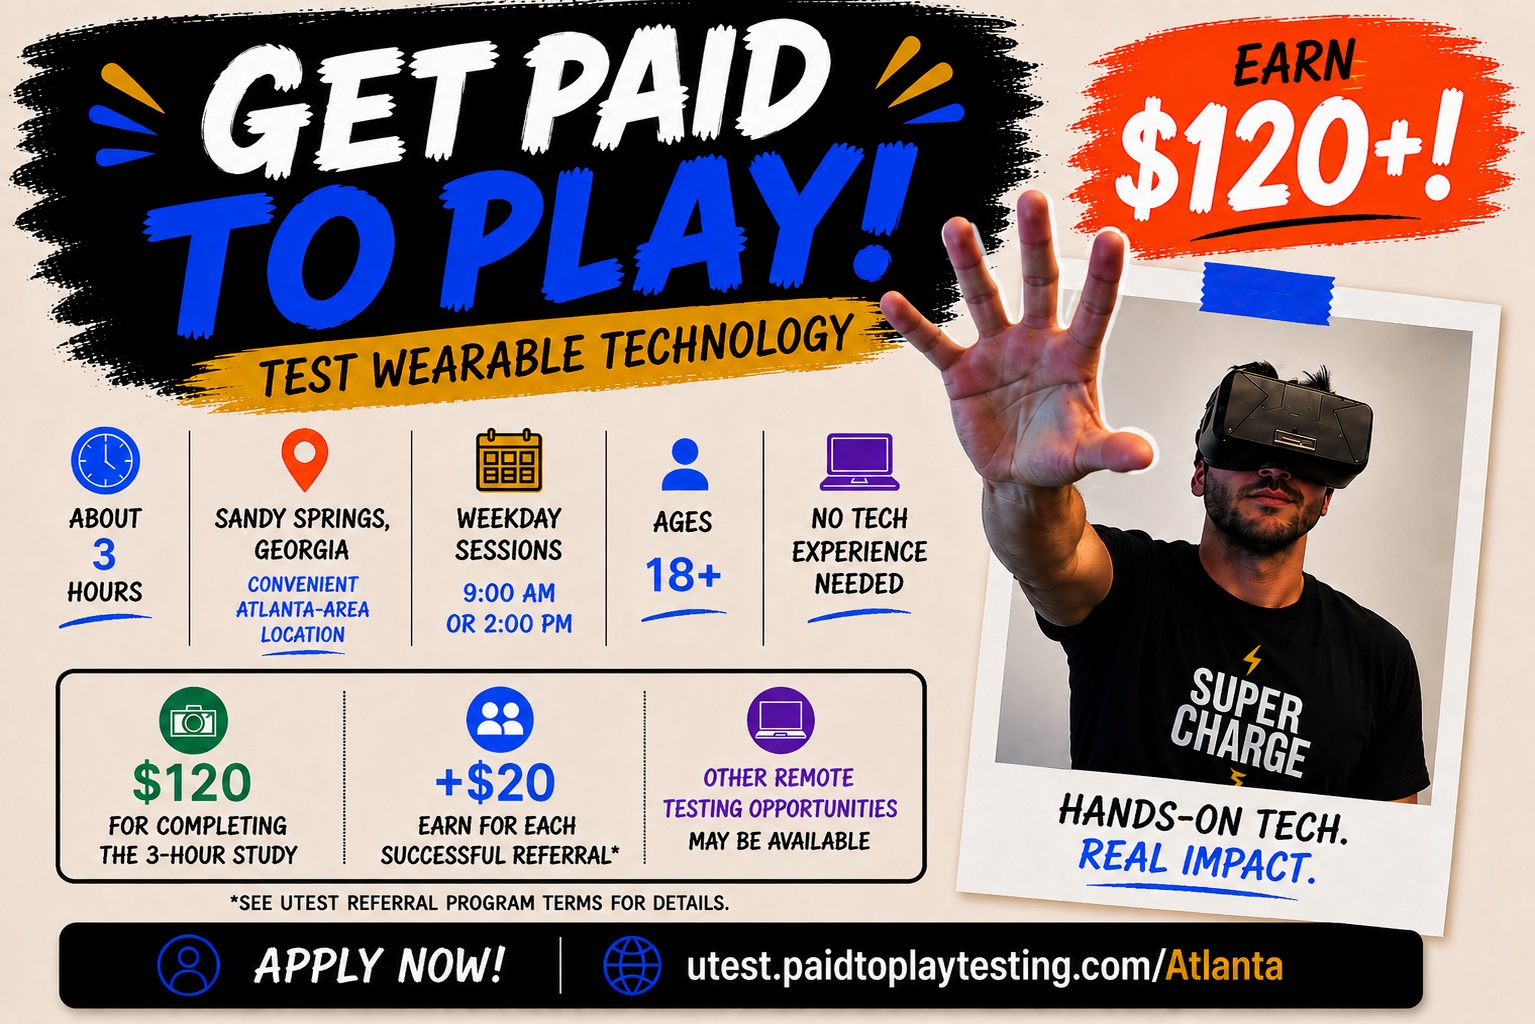
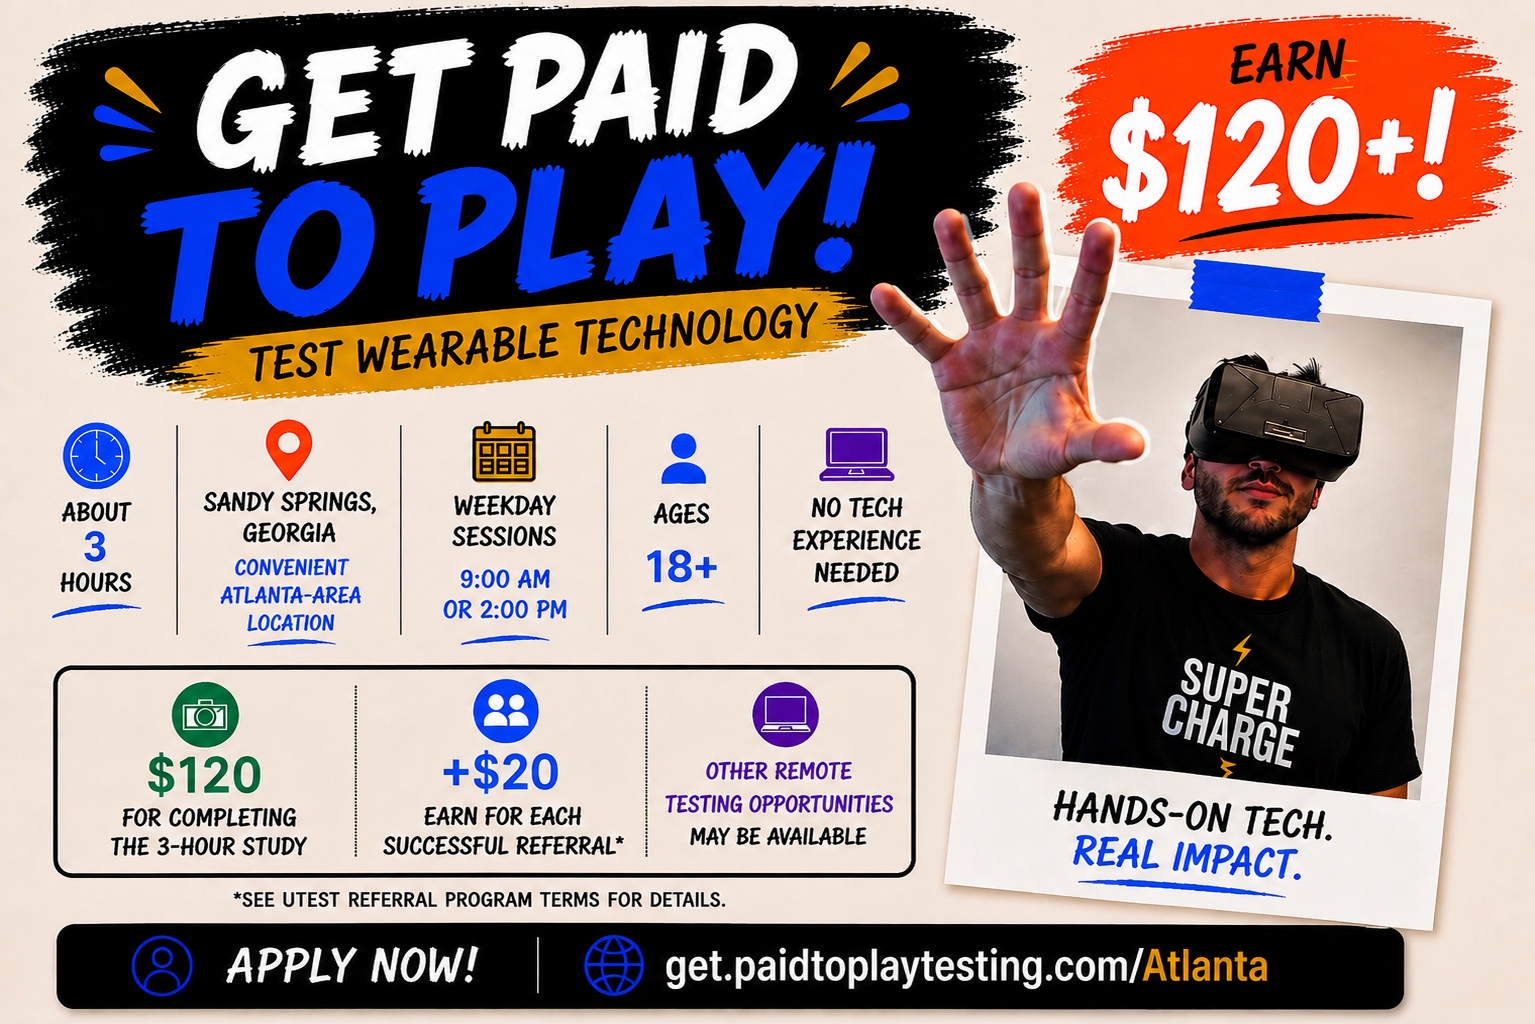
Add files via upload

diff --git a/Midtown/index.html b/Midtown/index.html
@@ -3,8 +3,8 @@
 <head>
 <meta charset="utf-8">
 <meta name="viewport" content="width=device-width,initial-scale=1">
-<title>Atlanta Wearable Technology Study | Paid to Play Testing</title>
-<meta name="description" content="Atlanta-area adults: apply for an in-person wearable technology testing opportunity in Sandy Springs paying $120 for approximately 3 hours.">
+<title>Midtown Wearable Technology Study | Paid to Play Testing</title>
+<meta name="description" content="New York City-area adults: apply for an in-person wearable technology testing opportunity in Midtown Manhattan paying $150 for approximately 3 hours.">
 <link rel="stylesheet" href="../assets/style.css">
 </head>
 <body>
@@ -14,19 +14,19 @@
 <section class="hero">
 <div class="wrap hero-grid">
   <div class="copy">
-    <div class="kicker">ATLANTA AREA • SANDY SPRINGS</div>
+    <div class="kicker">MIDTOWN MANHATTAN • NEW YORK CITY</div>
     <h1>Get Paid<br><span class="blue">to Play!</span></h1>
-    <p class="lead"><strong>Test wearable technology and earn $120</strong> for an approximately 3-hour, in-person session.</p>
+    <p class="lead"><strong>Test wearable technology and earn $150</strong> for an approximately 3-hour, in-person session.</p>
     <div class="offer">
-      <div class="pill">$120 STUDY PAYMENT</div>
+      <div class="pill">$150 STUDY PAYMENT</div>
       <div class="pill">ABOUT 3 HOURS</div>
       <div class="pill">AGE 18+</div>
     </div>
-    <p>Weekday sessions are generally offered around <strong>9 AM</strong> and <strong>2 PM</strong>.<br><span class="keep-together">No technology experience is required.</span> Participation is subject to eligibility and successful screening.</p>
-    <p><a class="cta" href="#before-you-apply">Apply for the Atlanta Study</a></p>
+    <p>Weekday sessions are generally offered around <strong>9:00 AM</strong> and <strong>1:30 PM</strong>.<br><span class="keep-together">No technology experience is required.</span> Participation is subject to eligibility and successful screening.</p>
+    <p><a class="cta" href="#before-you-apply">Apply for the Midtown Study</a></p>
     <p class="note">You'll continue to the official uTest registration/application process.</p>
   </div>
-  <div class="visual"><img class="hero-art" src="../assets/atlanta-hero.jpeg" alt="Get Paid to Play wearable technology testing campaign"></div>
+  <div class="visual"><img class="hero-art" src="../assets/midtown-hero.jpeg" alt="Get Paid to Play Midtown wearable technology testing campaign"></div>
 </div>
 </section>
 
@@ -72,7 +72,7 @@
   </div>
 
   <p style="text-align:center;margin-top:28px">
-    <a class="cta" href="https://utest.com/c-signup/wearables-atl-ambassador-1436373" rel="noopener noreferrer">Continue to Official uTest Application</a>
+    <a class="cta" href="https://utest.com/c-signup/wearables-nyc-ambassador-1436373" rel="noopener noreferrer">Continue to Official uTest Application</a>
   </p>
   <p class="note" style="text-align:center">You will be leaving Paid to Play Testing and continuing on the official uTest application flow.</p>
 </div>
@@ -82,12 +82,13 @@
 <div class="wrap two-col">
   <div>
     <h2>What to expect</h2>
-    <p>This is an <strong>in-person wearable technology study</strong> in the Sandy Springs / Atlanta area. Qualified participants are invited to attend an approximately three-hour session and receive <strong>$120</strong> for completing the study.</p>
-    <p>You'll first create a uTest account and then complete the study's application/screener. Not everyone who applies will necessarily qualify or be selected.</p>
+    <p>This is an <strong>in-person wearable technology study</strong> in <strong>Midtown Manhattan</strong>. Qualified participants are invited to attend an approximately three-hour session and receive <strong>$150</strong> for completing the study.</p>
+    <p>You must be able to travel to the <strong>Midtown Manhattan testing location</strong>. You'll first create a uTest account and then complete the study's application/screener. Not everyone who applies will necessarily qualify or be selected.</p>
+<p>Where applicable, participants may also have an opportunity to earn <strong>$20 for each successful referral</strong> who completes the study. Other in-person and remote testing opportunities may also be available if you qualify.</p>
     <p class="smallcaps">Questions or stuck during signup?</p>
     <p>Paid to Play Testing can help you navigate the registration and application process. Email <a href="mailto:info@paidtoplaytesting.com"><strong>info@paidtoplaytesting.com</strong></a> for assistance.</p>
   </div>
-  <div><img class="secondary" src="../assets/atlanta-secondary.jpeg" alt="Wearable technology testing opportunity campaign"></div>
+  <div><img class="secondary" src="../assets/midtown-secondary.jpeg" alt="Midtown wearable technology testing opportunity campaign"></div>
 </div>
 </section>
 

diff --git a/index.html b/index.html
@@ -9,6 +9,7 @@
 <h1>Get Paid<br><span class="blue">to Play!</span></h1>
 <p class="lead">Find hands-on testing opportunities and get help navigating the signup process.</p>
 <p><a class="cta" href="Atlanta/">Atlanta Wearable Study</a></p>
+<p><a class="cta" href="Midtown/">Midtown Wearable Study</a></p>
 </div></section></main>
 <footer><div class="wrap"><p>Paid to Play Testing is an independent referral and signup-assistance service.</p></div></footer>
 </body></html>
